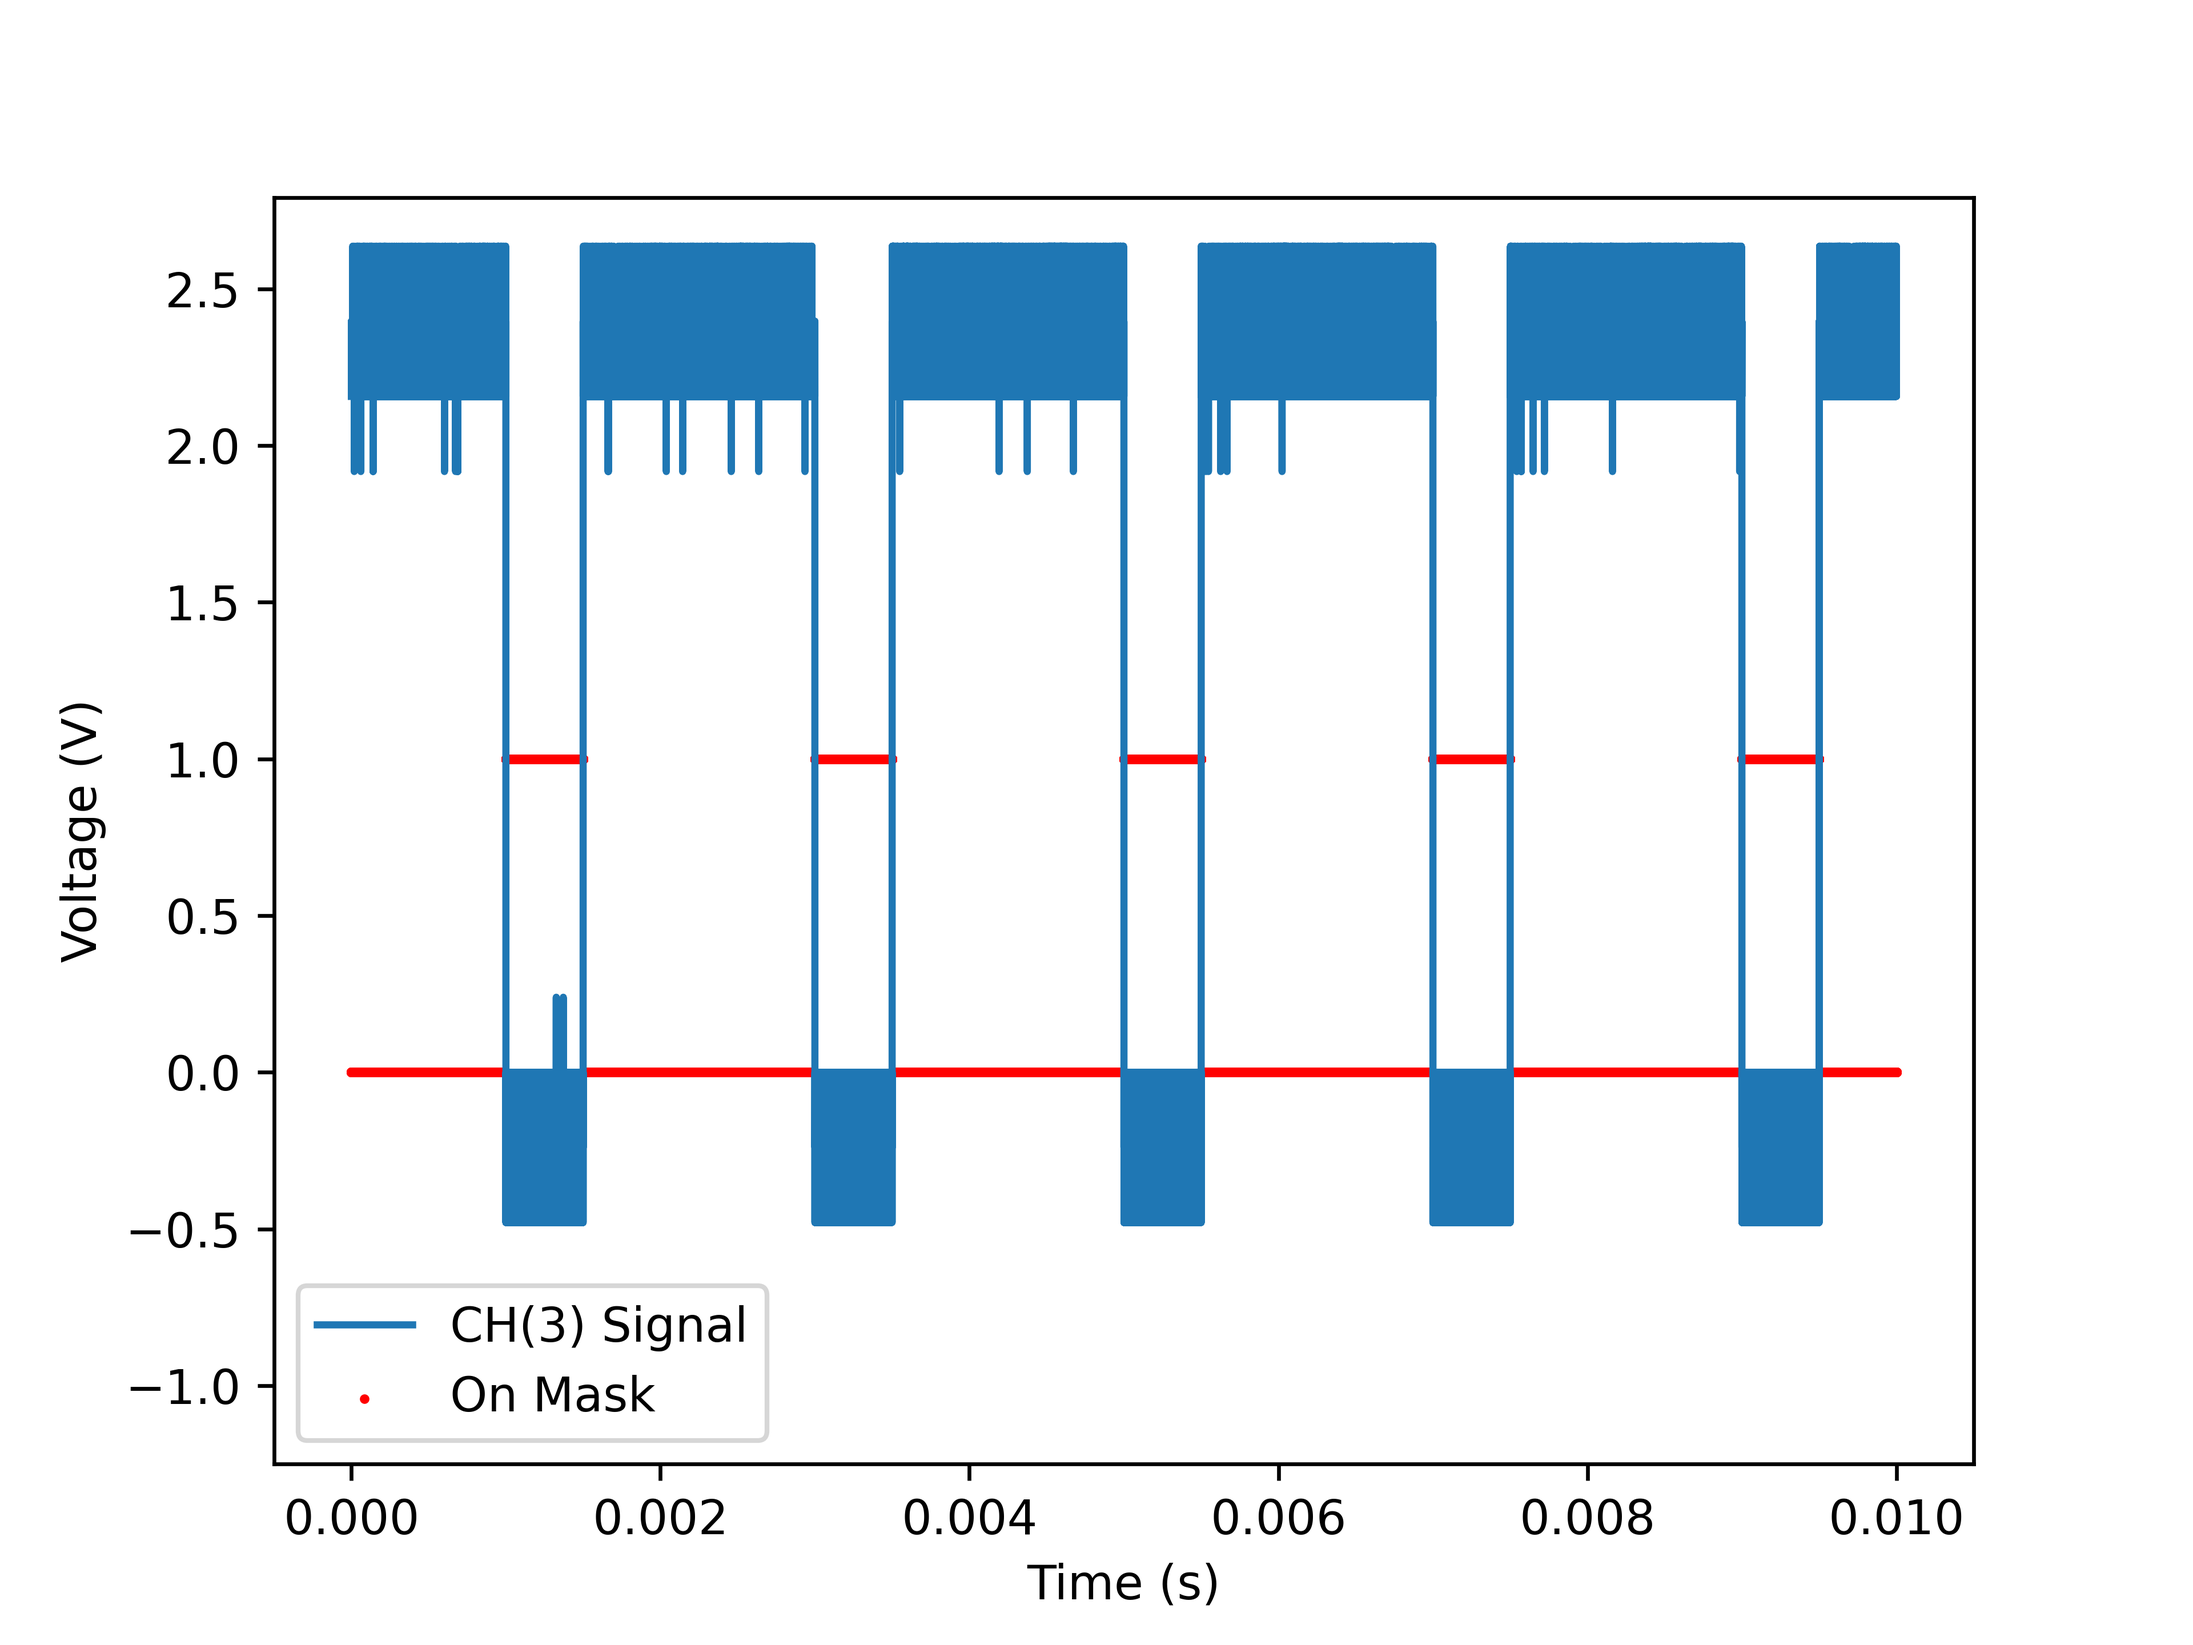
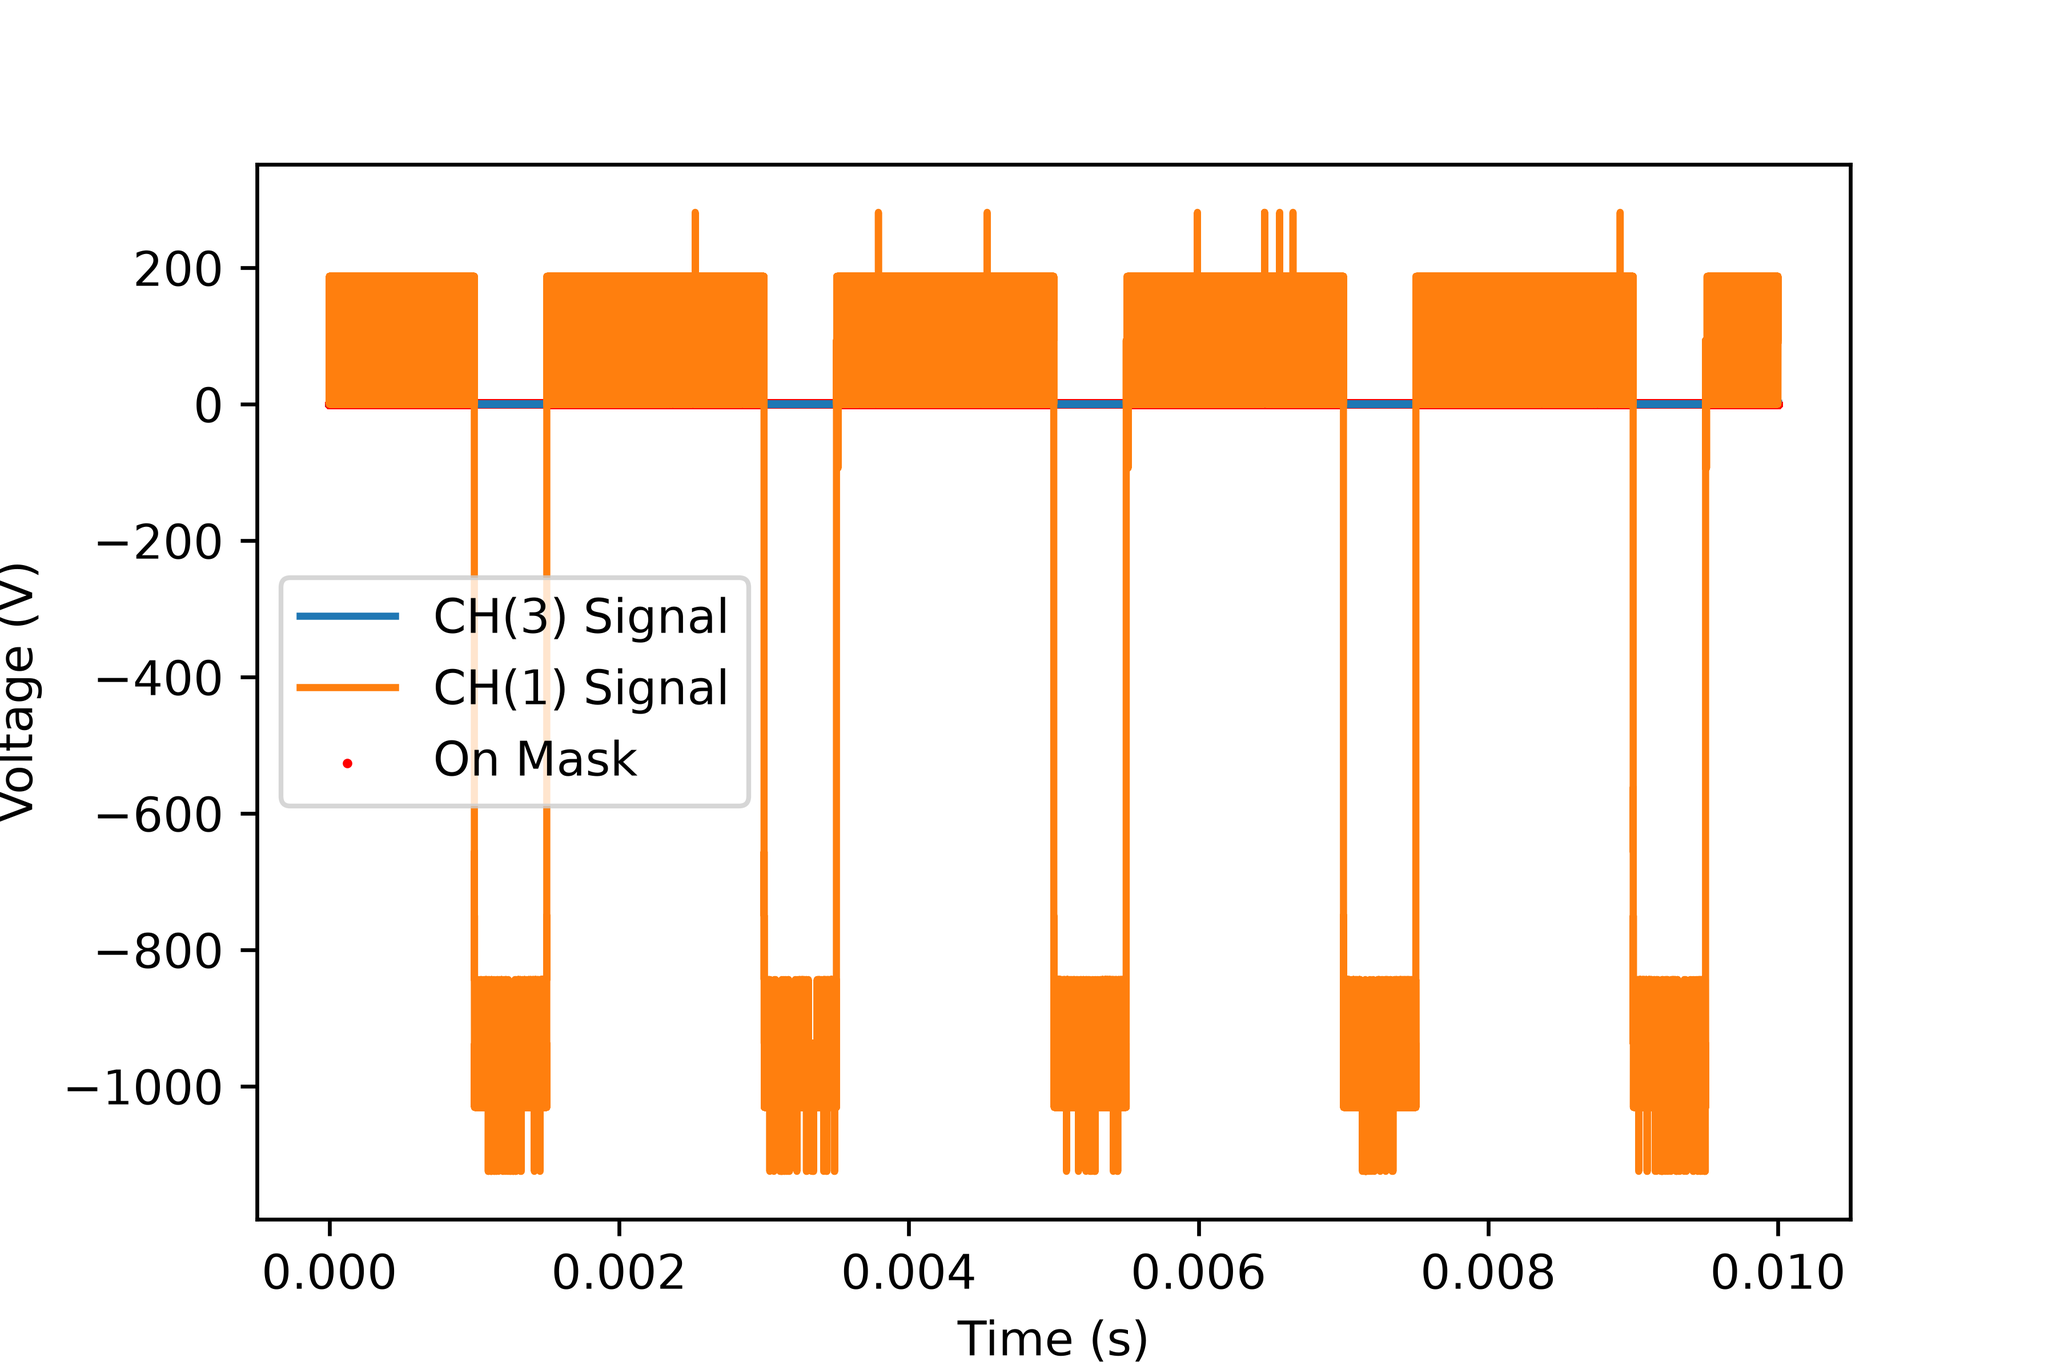
First iteration of waveform analysis function - but no automation

diff --git a/Electrical/explore_trace.py b/Electrical/explore_trace.py
@@ -3,24 +3,13 @@ import pandas as pd
 import numpy as np
 import matplotlib.pyplot as plt
 
-# Import filename parsing script
-import sys
-from pathlib import Path
-sys.path.insert(0, str(Path(__file__).resolve().parent.parent / "SharedScripts"))
-import filename_parse
-
 # Import giant .csv file -> 1,000,000 points!
 df = pd.read_csv("30Mar2026/500Hz_25%_3mA.csv", header=0)
 print(f"Shape of imported data: {df.shape}")
 print(f"Columns of .csv file: {df.columns}")
 print(f"Data types in dataframe: {df.dtypes}")
+print(df.head(2))
 
-"""
-pathlib.Path and a loop over Path("./30Mar2026").glob("*.csv")
-function explore_trace(path) — actually, why not do that now?
-Wrap what you have in a function that takes a path and returns the DataFrame, 
-then call it at the bottom.
-"""
 
 # Calculation of discrete time differences
 time_diff = df["Time(s)"].diff()
@@ -32,6 +21,7 @@ print(f"Maximum discrete different of time: {time_diff.max():.2e}")
 time_vals = df["Time(s)"].to_numpy()
 time_vals = time_vals - np.min(time_vals) # Set smallest time to zero
 CH3_vals = df["CH3(V)"].to_numpy()
+CH1_vals = df["CH1(V)"].to_numpy()
 
 # Create on_mask -> where CH3(V) < 0.5 V
 on_mask = CH3_vals < 0.5
@@ -40,17 +30,16 @@ print(f"Actual duty cycle: {100*actual_duty} %")
 
 fig, ax = plt.subplots()
 ax.plot(time_vals, CH3_vals, label="CH(3) Signal")
+ax.plot(time_vals, CH1_vals, label="CH(1) Signal")
 # ax.scatter(time_vals, CH3_vals, s=1)
 ax.scatter(time_vals, on_mask*np.ones_like(CH3_vals), s=1, color='r', label="On Mask")
 ax.set_xlabel("Time (s)")
 ax.set_ylabel("Voltage (V)")
-ax.set_ylim(bottom=-1.25)
 plt.legend()
 plt.savefig("CH3_explore.png",dpi=600)
 
 # Calculate current waveform from CH1
 shunt_res = 100e3 # 100 kOhm => 100e3 Ohm
-CH1_vals = df["CH1(V)"].to_numpy()
 I_shunt = (CH1_vals/shunt_res)*1e3 # mA
 # Grid check
 print(f"All possible values of current: {np.unique(np.round(I_shunt, 6))} mA")
@@ -89,6 +78,3 @@ ax.set_ylim(bottom=-15)
 ax.set_xlim(left=5e-4, right=2e-3)
 plt.legend()
 plt.savefig("current_explore_zoom.png",dpi=600)
-
-# Parse filename - testing import
-print(filename_parse("30Mar2026/500Hz_25%_3mA.csv"))

diff --git a/Electrical/analyze_waveform.py b/Electrical/analyze_waveform.py
@@ -1,0 +1,49 @@
+import pandas as pd
+import numpy as np
+# import sys
+# from pathlib import Path
+# sys.path.insert(0, str(Path(__file__).resolve().parent.parent / "SharedScripts"))
+# from filename_parse import filename_parse
+
+def analyze_waveform(csv_path):
+    """ Read one RIGOL waveform CSV, compute quantities, and return a dict of scalars"""
+    
+    # import csv as dataframe
+    df = pd.read_csv(csv_path, header=0)
+    
+    # Calculation of minimum discrete time differences
+    time_diff_min = df["Time(s)"].diff().min()
+    if time_diff_min < 0.0:
+        time_ok = False
+    else:
+        time_ok = True
+    
+    # Define on mask as when CH3 is less than 0.5 V
+    CH3_vals = df["CH3(V)"].to_numpy()
+    on_mask = CH3_vals < 0.5
+    
+    # Guard clause
+    if not on_mask.any():
+        return {"time_monotonic": time_ok, "duty_%": None, "peak_current_mA": None, "peak_current_std_mA": None, "average_current_mA": None}
+    
+   
+    # Calculate duty cycle
+    duty = np.mean(on_mask*np.ones_like(CH3_vals))
+    
+    # Calculate current waveform from CH1 -> negative current as convention
+    shunt_res = 100e3 # 100 kOhm => 100e3 Ohm
+    CH1_vals = df["CH1(V)"].to_numpy()
+    I_shunt = (CH1_vals/shunt_res)*1e3 # mA
+    
+    # Calculate "masked" shunt current -> positive stuff is not "real"
+    I_shunt_masked = I_shunt*on_mask
+    I_shunt_on = I_shunt_masked[on_mask]
+    I_shunt_on_mean = np.mean(I_shunt_on)
+    I_shunt_on_std = np.std(I_shunt_on) # quantization "staircase", not noise -> but still useful to define spread of peak.
+    I_shunt_masked_mean = I_shunt_on_mean*duty
+    
+    return {"time_monotonic": time_ok, "duty_%": duty*100, "peak_current_mA": I_shunt_on_mean, "peak_current_std_mA": I_shunt_on_std, "average_current_mA": I_shunt_masked_mean}
+    
+    
+if __name__ == "__main__":
+    analyze_waveform("30Mar2026/1kHz_5%_5mA.csv")
